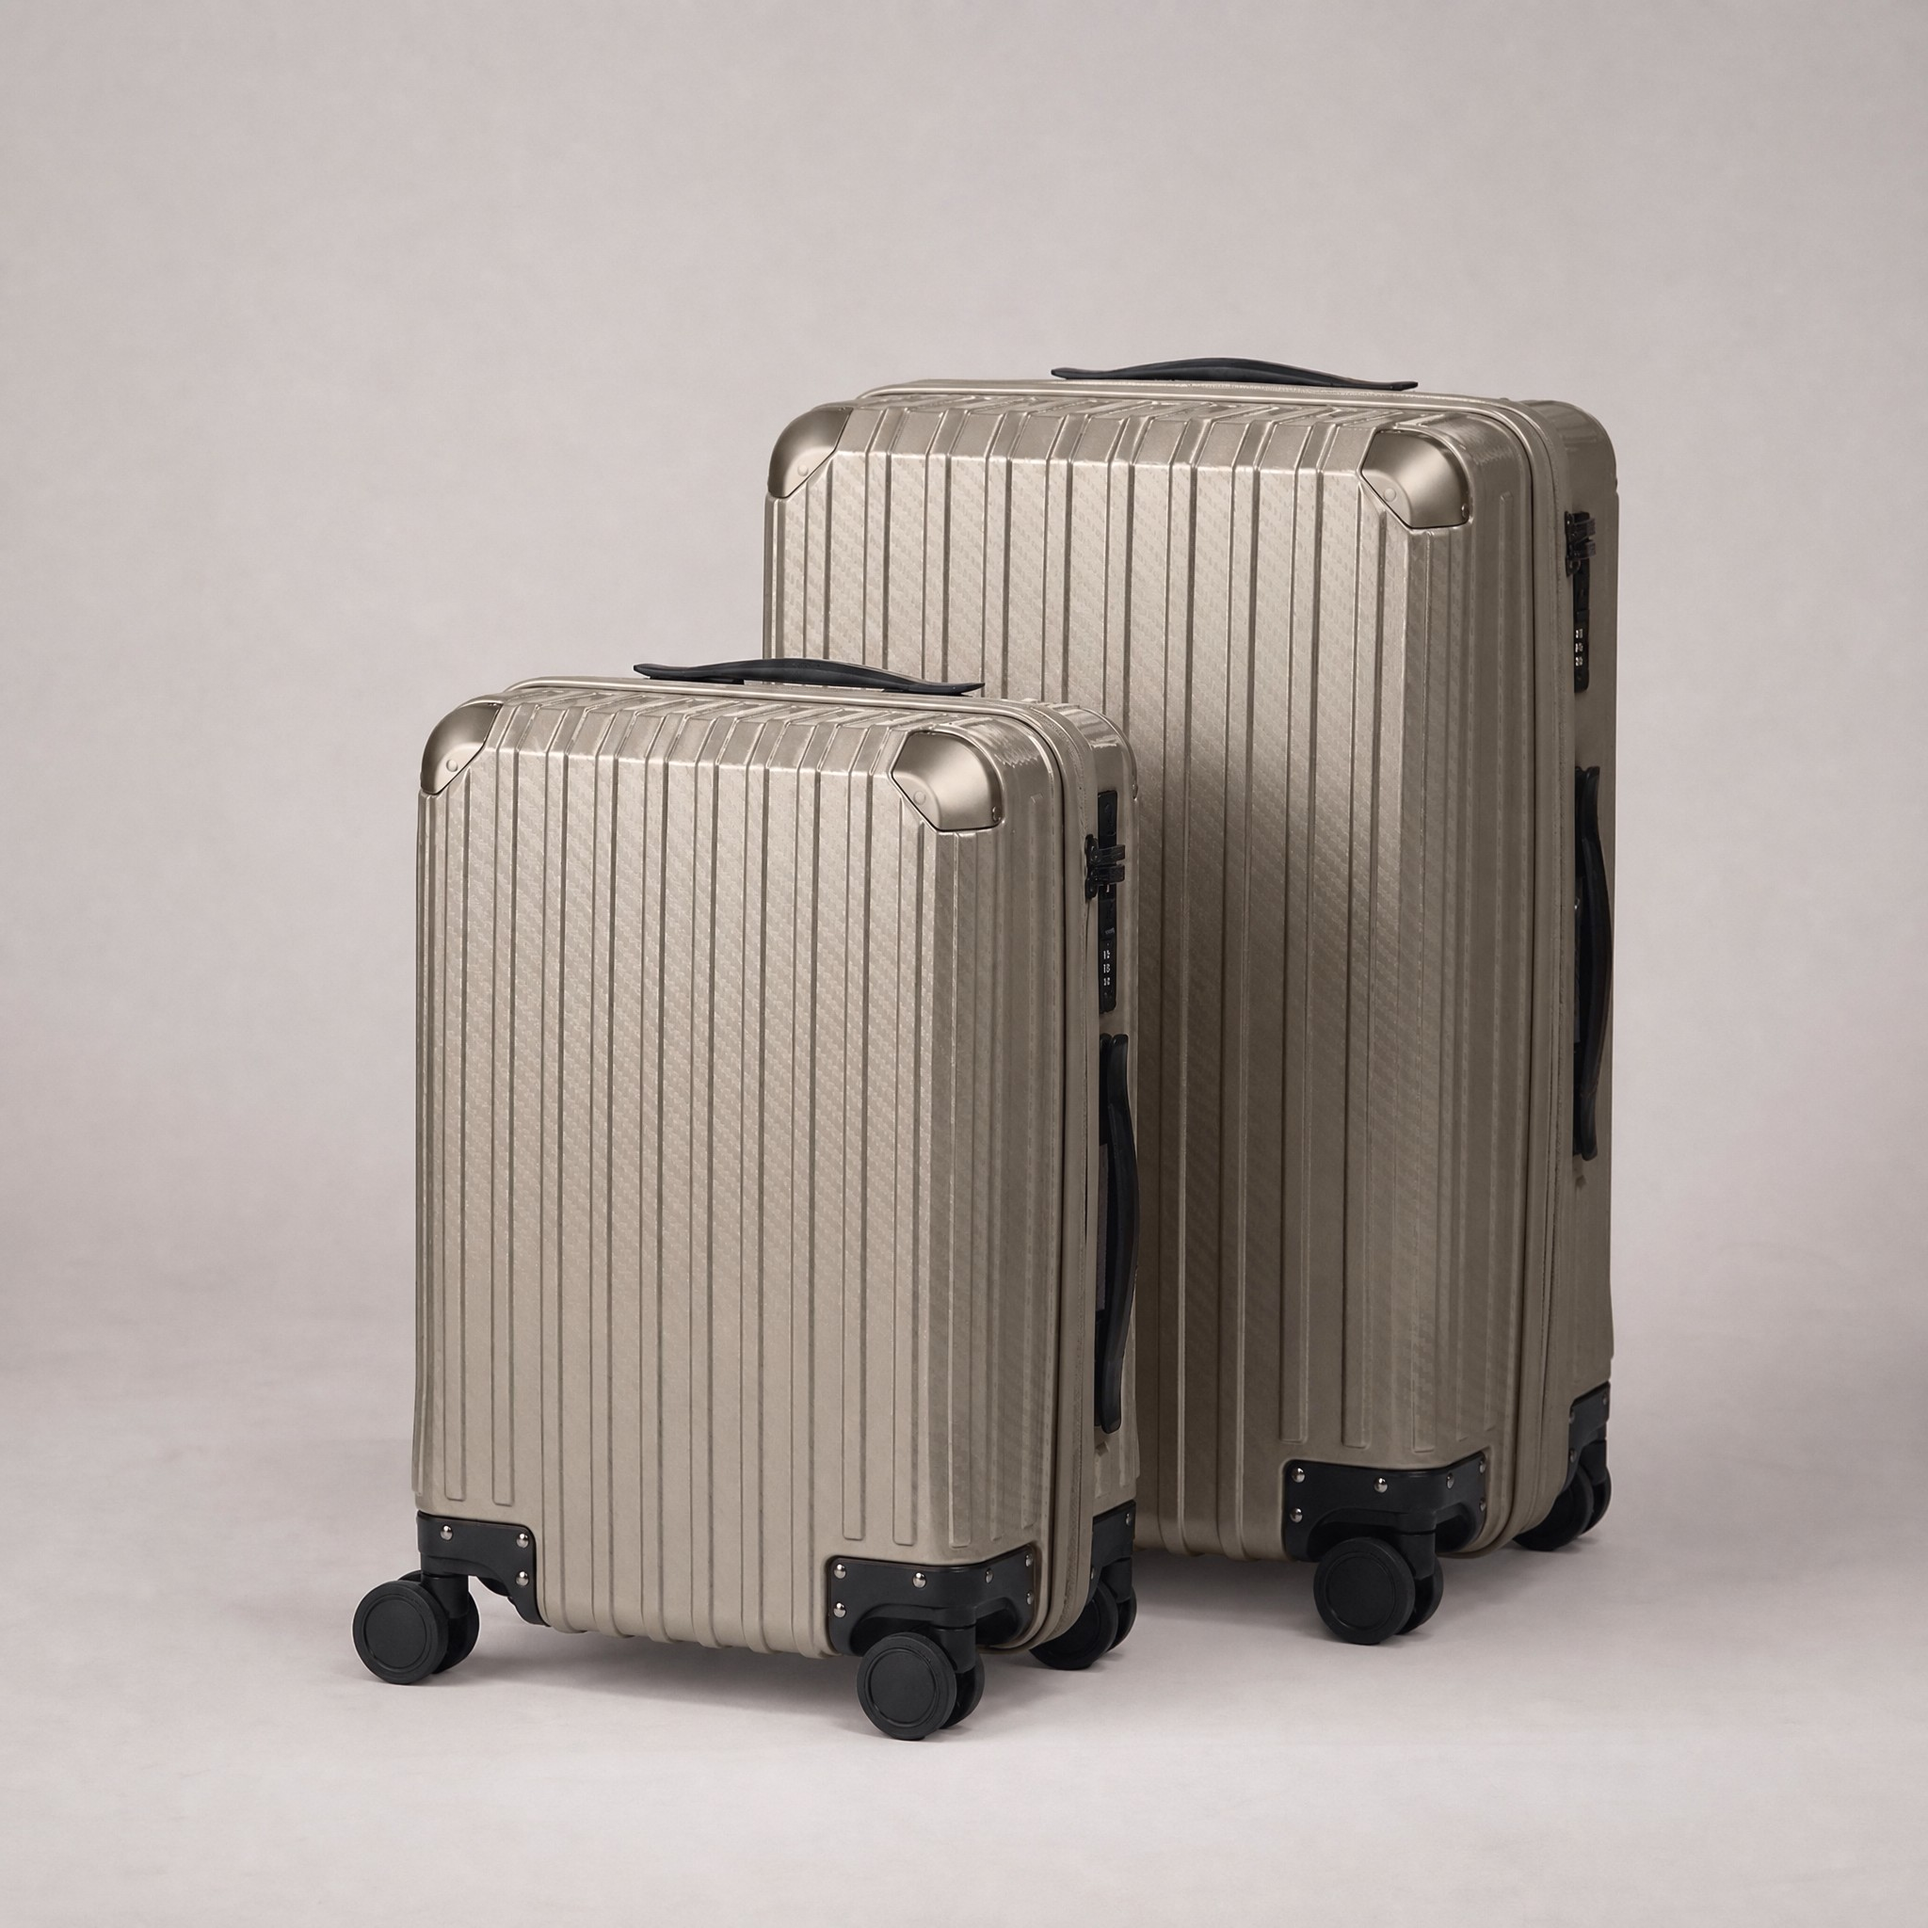
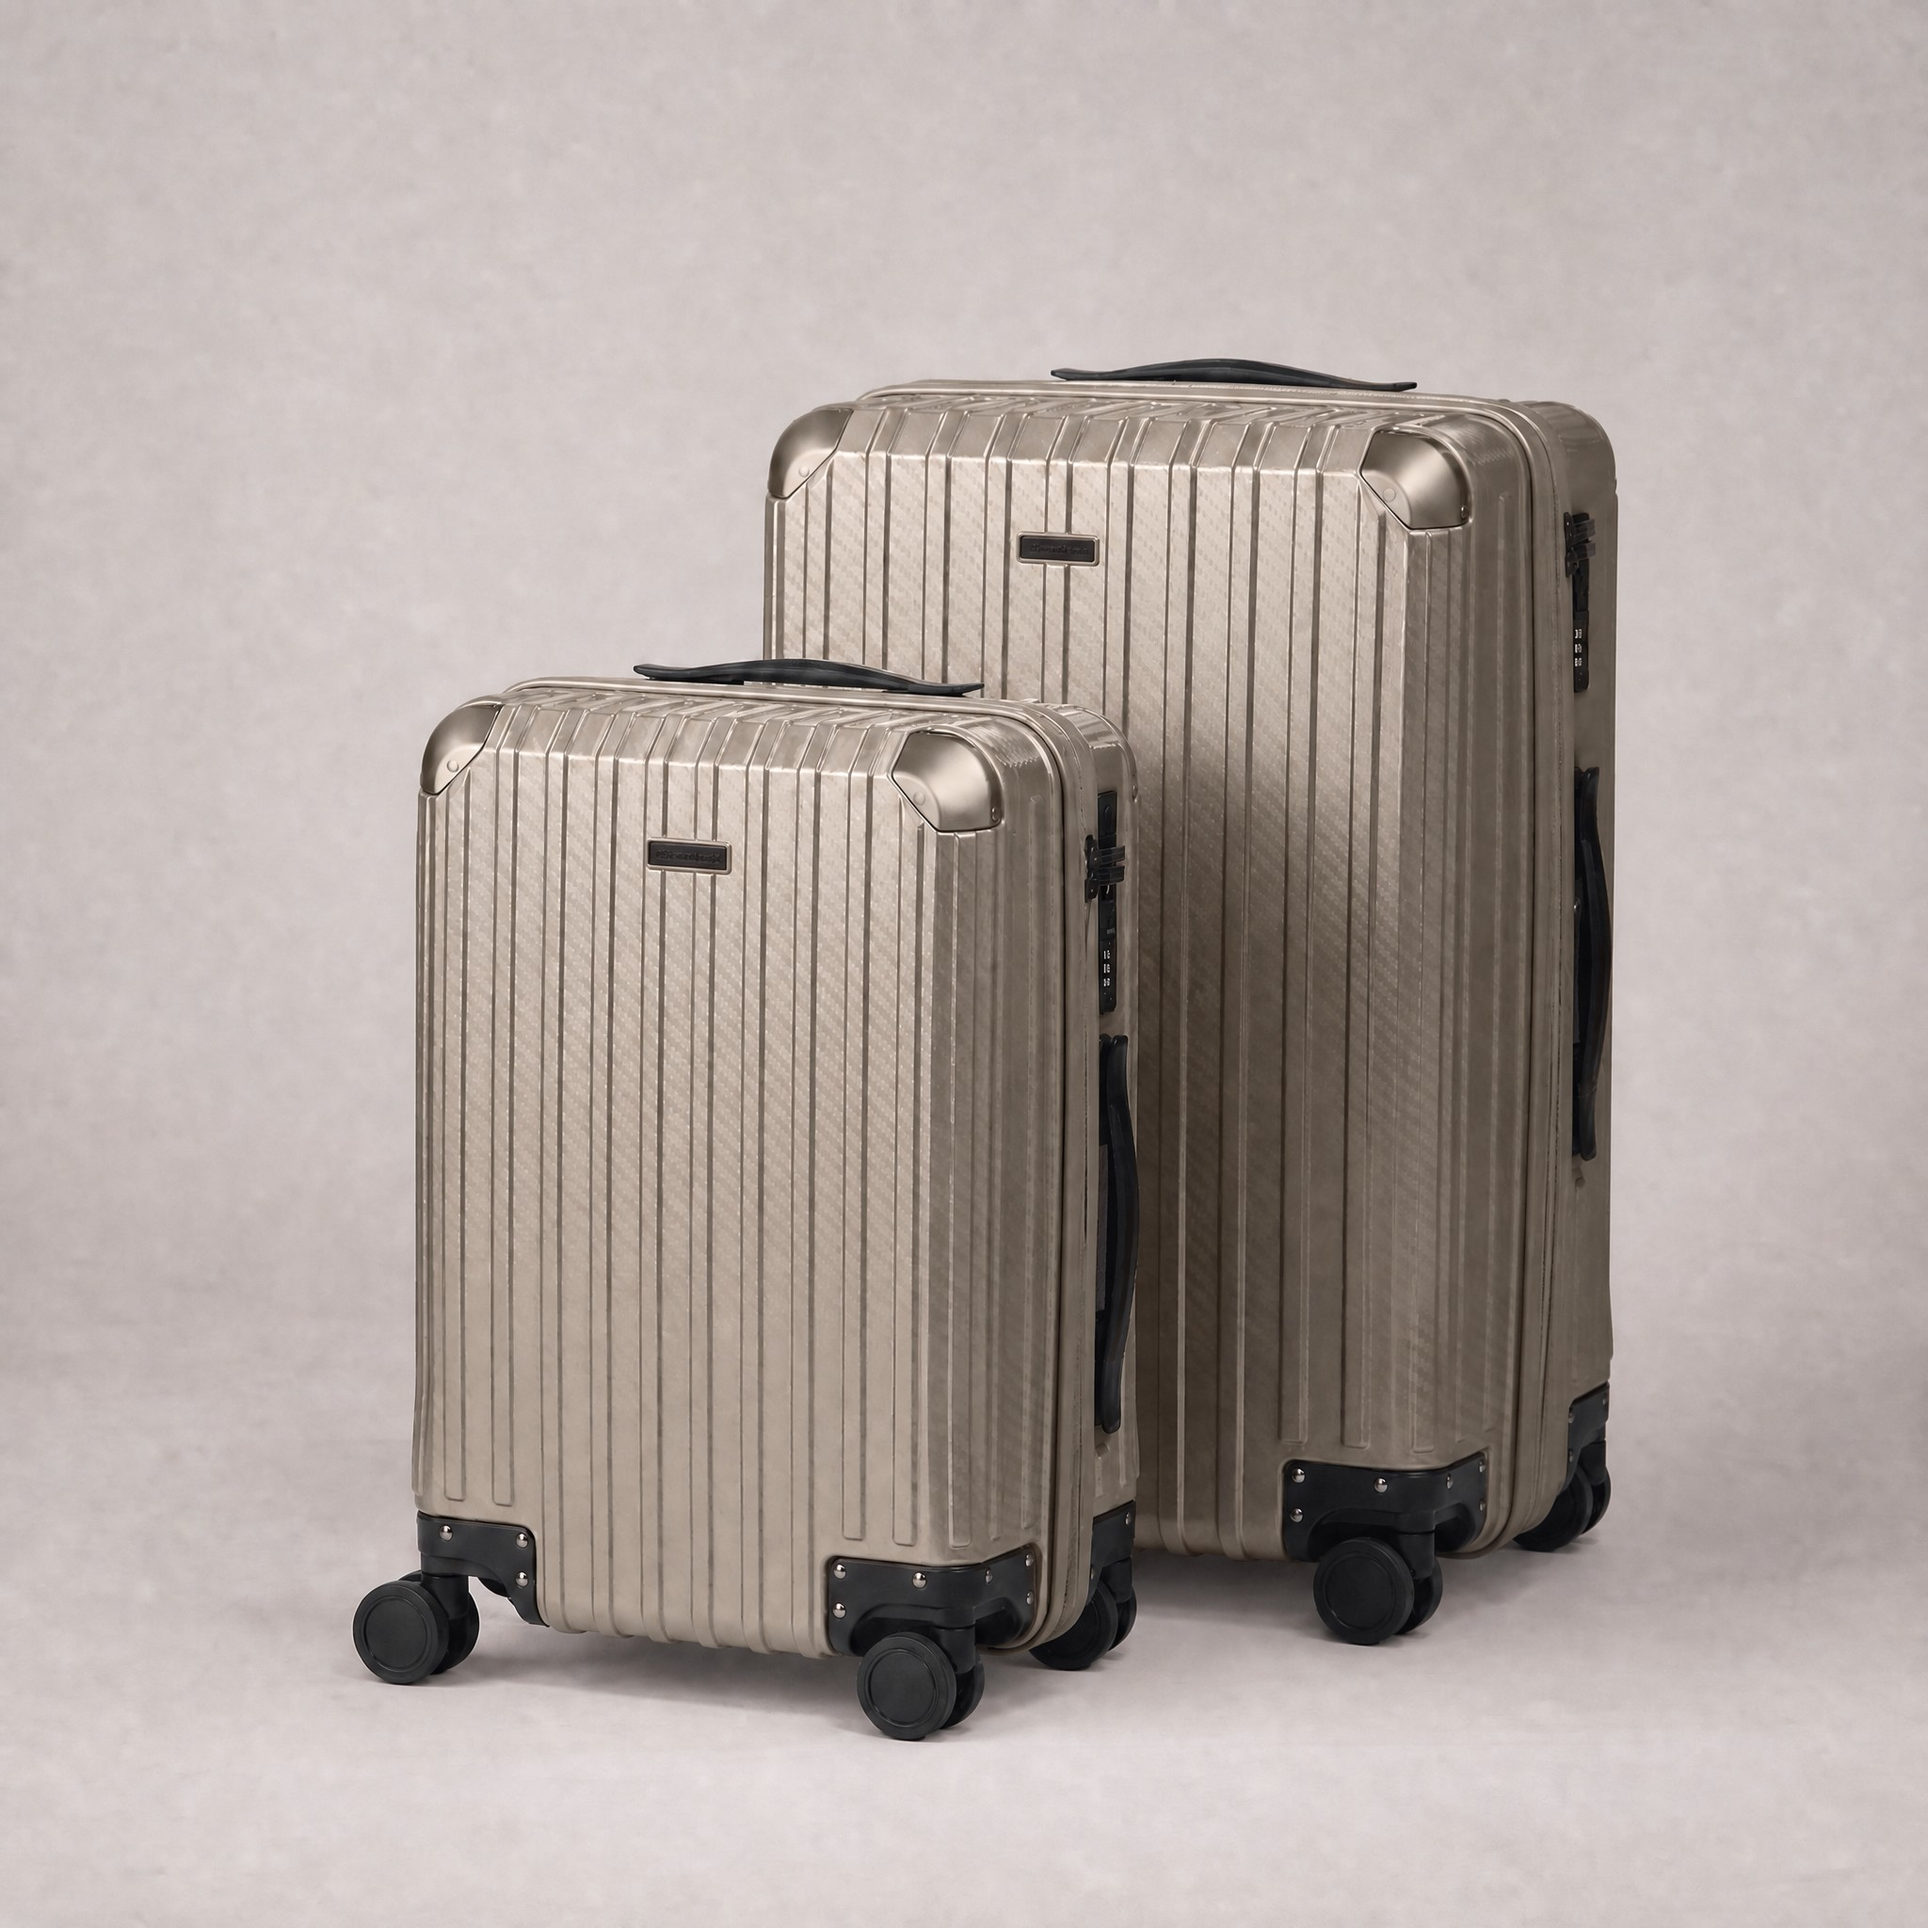
Kovcki: add brand plate to front-facing shots (centered per real ref), update 05 caption

diff --git a/kovcki-25115-voyage-prestige-set-srebrn.html b/kovcki-25115-voyage-prestige-set-srebrn.html
@@ -24,7 +24,7 @@
 </style></head>
 <body><header><div class="eyebrow">Vitapur · Svilanit</div><h1>Set kovčkov Scandinavia Voyage Prestige – 40 L + 60 L, srebrn</h1><p>SKU 25115 · 6 slik. Klik na sliko odpre polno velikost; pod vsako lahko dodaš komentar ali potrdiš z ✓.</p><a class="back" href="kat-kovcki.html">&larr; Kovčki</a></header>
 <div class="grid">
-<figure><a href="img/kovcki-25115-voyage-prestige-set-srebrn/01_entry.jpg" target="_blank"><img src="img/kovcki-25115-voyage-prestige-set-srebrn/01_entry.jpg" alt="ENTRY — set 40 + 60 L, studio" loading="lazy"></a><figcaption><span class="num">01</span><div class="cap">ENTRY — set 40 + 60 L, studio</div></figcaption></figure><figure><a href="img/kovcki-25115-voyage-prestige-set-srebrn/02_parachute_low.jpg" target="_blank"><img src="img/kovcki-25115-voyage-prestige-set-srebrn/02_parachute_low.jpg" alt="Dinamični kader — terminal, nizka perspektiva" loading="lazy"></a><figcaption><span class="num">02</span><div class="cap">Dinamični kader — terminal, nizka perspektiva</div></figcaption></figure><figure><a href="img/kovcki-25115-voyage-prestige-set-srebrn/03_lifestyle_golden.jpg" target="_blank"><img src="img/kovcki-25115-voyage-prestige-set-srebrn/03_lifestyle_golden.jpg" alt="Lifestyle — zlata ura" loading="lazy"></a><figcaption><span class="num">03</span><div class="cap">Lifestyle — zlata ura</div></figcaption></figure><figure><a href="img/kovcki-25115-voyage-prestige-set-srebrn/04_detail_texture.jpg" target="_blank"><img src="img/kovcki-25115-voyage-prestige-set-srebrn/04_detail_texture.jpg" alt="Detajl — karbonska tekstura in vogalni ščitnik" loading="lazy"></a><figcaption><span class="num">04</span><div class="cap">Detajl — karbonska tekstura in vogalni ščitnik</div></figcaption></figure><figure><a href="img/kovcki-25115-voyage-prestige-set-srebrn/05_detail_lock.jpg" target="_blank"><img src="img/kovcki-25115-voyage-prestige-set-srebrn/05_detail_lock.jpg" alt="Detajl — TSA ključavnica" loading="lazy"></a><figcaption><span class="num">05</span><div class="cap">Detajl — TSA ključavnica</div></figcaption></figure><figure><a href="img/kovcki-25115-voyage-prestige-set-srebrn/06_detail_wheels.jpg" target="_blank"><img src="img/kovcki-25115-voyage-prestige-set-srebrn/06_detail_wheels.jpg" alt="Detajl — spinner kolesa" loading="lazy"></a><figcaption><span class="num">06</span><div class="cap">Detajl — spinner kolesa</div></figcaption></figure>
+<figure><a href="img/kovcki-25115-voyage-prestige-set-srebrn/01_entry.jpg" target="_blank"><img src="img/kovcki-25115-voyage-prestige-set-srebrn/01_entry.jpg" alt="ENTRY — set 40 + 60 L, studio" loading="lazy"></a><figcaption><span class="num">01</span><div class="cap">ENTRY — set 40 + 60 L, studio</div></figcaption></figure><figure><a href="img/kovcki-25115-voyage-prestige-set-srebrn/02_parachute_low.jpg" target="_blank"><img src="img/kovcki-25115-voyage-prestige-set-srebrn/02_parachute_low.jpg" alt="Dinamični kader — terminal, nizka perspektiva" loading="lazy"></a><figcaption><span class="num">02</span><div class="cap">Dinamični kader — terminal, nizka perspektiva</div></figcaption></figure><figure><a href="img/kovcki-25115-voyage-prestige-set-srebrn/03_lifestyle_golden.jpg" target="_blank"><img src="img/kovcki-25115-voyage-prestige-set-srebrn/03_lifestyle_golden.jpg" alt="Lifestyle — zlata ura" loading="lazy"></a><figcaption><span class="num">03</span><div class="cap">Lifestyle — zlata ura</div></figcaption></figure><figure><a href="img/kovcki-25115-voyage-prestige-set-srebrn/04_detail_texture.jpg" target="_blank"><img src="img/kovcki-25115-voyage-prestige-set-srebrn/04_detail_texture.jpg" alt="Detajl — karbonska tekstura in vogalni ščitnik" loading="lazy"></a><figcaption><span class="num">04</span><div class="cap">Detajl — karbonska tekstura in vogalni ščitnik</div></figcaption></figure><figure><a href="img/kovcki-25115-voyage-prestige-set-srebrn/05_detail_lock.jpg" target="_blank"><img src="img/kovcki-25115-voyage-prestige-set-srebrn/05_detail_lock.jpg" alt="Set — tablica in TSA ključavnica" loading="lazy"></a><figcaption><span class="num">05</span><div class="cap">Set — tablica in TSA ključavnica</div></figcaption></figure><figure><a href="img/kovcki-25115-voyage-prestige-set-srebrn/06_detail_wheels.jpg" target="_blank"><img src="img/kovcki-25115-voyage-prestige-set-srebrn/06_detail_wheels.jpg" alt="Detajl — spinner kolesa" loading="lazy"></a><figcaption><span class="num">06</span><div class="cap">Detajl — spinner kolesa</div></figcaption></figure>
 </div>
 <footer>Concept gallery · Vitapur</footer>
 <!-- Comment boxes appear automatically under every image - do not remove this line -->

diff --git a/kovcki-25116-voyage-prestige-set-crn.html b/kovcki-25116-voyage-prestige-set-crn.html
@@ -24,7 +24,7 @@
 </style></head>
 <body><header><div class="eyebrow">Vitapur · Svilanit</div><h1>Set kovčkov Scandinavia Voyage Prestige – 40 L + 60 L, črn</h1><p>SKU 25116 · 6 slik. Klik na sliko odpre polno velikost; pod vsako lahko dodaš komentar ali potrdiš z ✓.</p><a class="back" href="kat-kovcki.html">&larr; Kovčki</a></header>
 <div class="grid">
-<figure><a href="img/kovcki-25116-voyage-prestige-set-crn/01_entry.jpg" target="_blank"><img src="img/kovcki-25116-voyage-prestige-set-crn/01_entry.jpg" alt="ENTRY — set 40 + 60 L, studio" loading="lazy"></a><figcaption><span class="num">01</span><div class="cap">ENTRY — set 40 + 60 L, studio</div></figcaption></figure><figure><a href="img/kovcki-25116-voyage-prestige-set-crn/02_parachute_low.jpg" target="_blank"><img src="img/kovcki-25116-voyage-prestige-set-crn/02_parachute_low.jpg" alt="Dinamični kader — terminal, nizka perspektiva" loading="lazy"></a><figcaption><span class="num">02</span><div class="cap">Dinamični kader — terminal, nizka perspektiva</div></figcaption></figure><figure><a href="img/kovcki-25116-voyage-prestige-set-crn/03_lifestyle_golden.jpg" target="_blank"><img src="img/kovcki-25116-voyage-prestige-set-crn/03_lifestyle_golden.jpg" alt="Lifestyle — zlata ura" loading="lazy"></a><figcaption><span class="num">03</span><div class="cap">Lifestyle — zlata ura</div></figcaption></figure><figure><a href="img/kovcki-25116-voyage-prestige-set-crn/04_detail_texture.jpg" target="_blank"><img src="img/kovcki-25116-voyage-prestige-set-crn/04_detail_texture.jpg" alt="Detajl — karbonska tekstura in vogalni ščitnik" loading="lazy"></a><figcaption><span class="num">04</span><div class="cap">Detajl — karbonska tekstura in vogalni ščitnik</div></figcaption></figure><figure><a href="img/kovcki-25116-voyage-prestige-set-crn/05_detail_lock.jpg" target="_blank"><img src="img/kovcki-25116-voyage-prestige-set-crn/05_detail_lock.jpg" alt="Detajl — TSA ključavnica" loading="lazy"></a><figcaption><span class="num">05</span><div class="cap">Detajl — TSA ključavnica</div></figcaption></figure><figure><a href="img/kovcki-25116-voyage-prestige-set-crn/06_detail_wheels.jpg" target="_blank"><img src="img/kovcki-25116-voyage-prestige-set-crn/06_detail_wheels.jpg" alt="Detajl — spinner kolesa" loading="lazy"></a><figcaption><span class="num">06</span><div class="cap">Detajl — spinner kolesa</div></figcaption></figure>
+<figure><a href="img/kovcki-25116-voyage-prestige-set-crn/01_entry.jpg" target="_blank"><img src="img/kovcki-25116-voyage-prestige-set-crn/01_entry.jpg" alt="ENTRY — set 40 + 60 L, studio" loading="lazy"></a><figcaption><span class="num">01</span><div class="cap">ENTRY — set 40 + 60 L, studio</div></figcaption></figure><figure><a href="img/kovcki-25116-voyage-prestige-set-crn/02_parachute_low.jpg" target="_blank"><img src="img/kovcki-25116-voyage-prestige-set-crn/02_parachute_low.jpg" alt="Dinamični kader — terminal, nizka perspektiva" loading="lazy"></a><figcaption><span class="num">02</span><div class="cap">Dinamični kader — terminal, nizka perspektiva</div></figcaption></figure><figure><a href="img/kovcki-25116-voyage-prestige-set-crn/03_lifestyle_golden.jpg" target="_blank"><img src="img/kovcki-25116-voyage-prestige-set-crn/03_lifestyle_golden.jpg" alt="Lifestyle — zlata ura" loading="lazy"></a><figcaption><span class="num">03</span><div class="cap">Lifestyle — zlata ura</div></figcaption></figure><figure><a href="img/kovcki-25116-voyage-prestige-set-crn/04_detail_texture.jpg" target="_blank"><img src="img/kovcki-25116-voyage-prestige-set-crn/04_detail_texture.jpg" alt="Detajl — karbonska tekstura in vogalni ščitnik" loading="lazy"></a><figcaption><span class="num">04</span><div class="cap">Detajl — karbonska tekstura in vogalni ščitnik</div></figcaption></figure><figure><a href="img/kovcki-25116-voyage-prestige-set-crn/05_detail_lock.jpg" target="_blank"><img src="img/kovcki-25116-voyage-prestige-set-crn/05_detail_lock.jpg" alt="Set — tablica in TSA ključavnica" loading="lazy"></a><figcaption><span class="num">05</span><div class="cap">Set — tablica in TSA ključavnica</div></figcaption></figure><figure><a href="img/kovcki-25116-voyage-prestige-set-crn/06_detail_wheels.jpg" target="_blank"><img src="img/kovcki-25116-voyage-prestige-set-crn/06_detail_wheels.jpg" alt="Detajl — spinner kolesa" loading="lazy"></a><figcaption><span class="num">06</span><div class="cap">Detajl — spinner kolesa</div></figcaption></figure>
 </div>
 <footer>Concept gallery · Vitapur</footer>
 <!-- Comment boxes appear automatically under every image - do not remove this line -->
